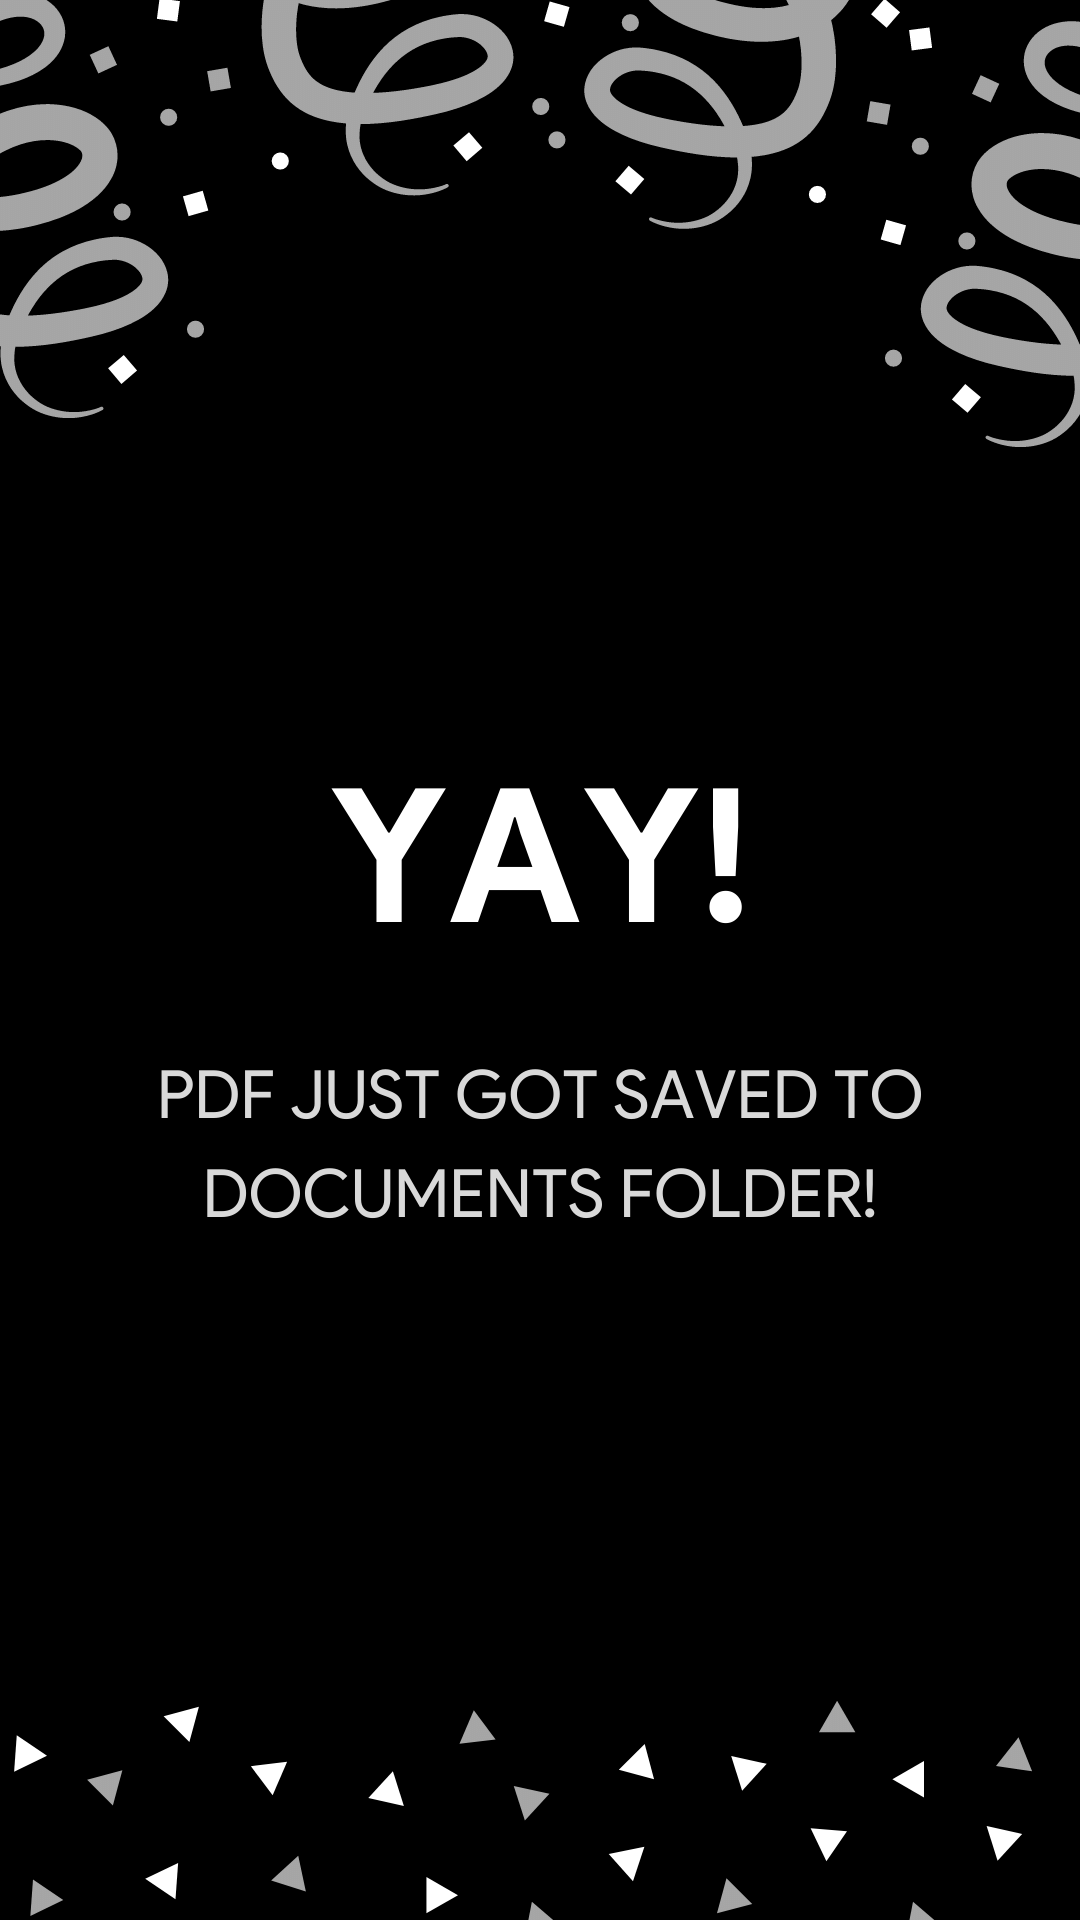
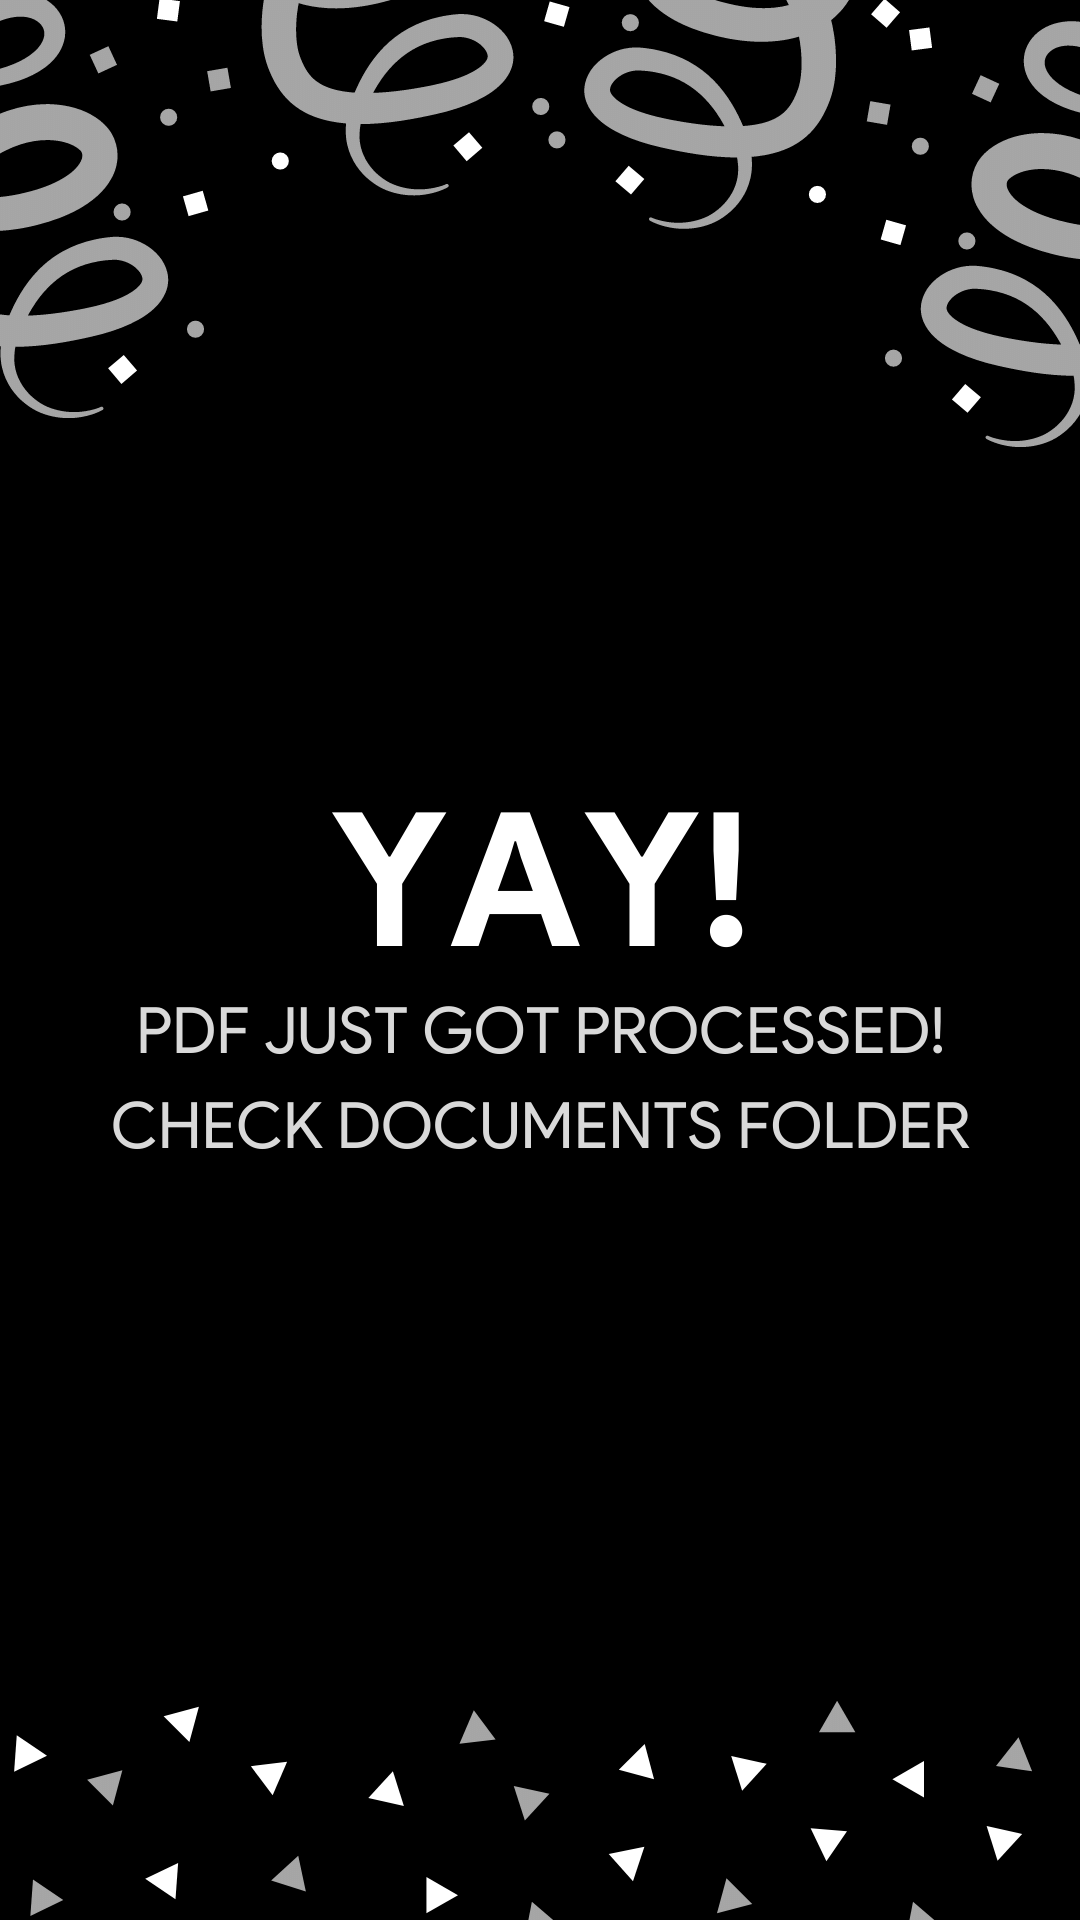
Added Final Exception Handled

Changed region(s): [[0.0917, 0.4062, 0.9167, 0.6562]]

diff --git a/app/src/main/java/com/aaxena/takenotes/Landing.java b/app/src/main/java/com/aaxena/takenotes/Landing.java
@@ -52,8 +52,10 @@ import com.google.android.play.core.install.model.AppUpdateType;
 import com.google.android.play.core.install.model.InstallStatus;
 import com.google.android.play.core.install.model.UpdateAvailability;
 import com.itextpdf.text.BadElementException;
+import com.itextpdf.text.Chunk;
 import com.itextpdf.text.Document;
 import com.itextpdf.text.DocumentException;
+import com.itextpdf.text.ExceptionConverter;
 import com.itextpdf.text.Image;
 import com.itextpdf.text.PageSize;
 import com.itextpdf.text.pdf.PdfWriter;
@@ -192,7 +194,6 @@ public class Landing extends AppCompatActivity {
         webview.getSettings().setUseWideViewPort(true);
         webview.setInitialScale((int) 1.0);
         webview.loadUrl("https://shrish-sharma-codes.github.io/tn-testing-V2/");
-        webview.scrollTo(0, 200);
         webview.setWebChromeClient(new WebChromeClient() {
             //File Chooser
             public boolean onShowFileChooser(
@@ -244,7 +245,21 @@ public class Landing extends AppCompatActivity {
                         }
                         new CreatePdfTask(Landing.this, imagesArrayList).execute();
                     } catch (Exception e) {
-                        Toast.makeText(Landing.this,"No Images Under Take Notes Folder",Toast.LENGTH_LONG).show();
+                        new AlertDialog.Builder(Landing.this)
+                                .setTitle("No Images Found")
+                                .setMessage(R.string.no_img)
+                                .setCancelable(false)
+                                // A null listener allows the button to dismiss the dialog and take no further action.
+                                .setPositiveButton("I Know", new DialogInterface.OnClickListener() {
+                                    @Override
+                                    public void onClick(DialogInterface dialog, int which) {
+                                        Intent i=new Intent(Landing.this,Landing.class);
+                                        startActivity(i);
+                                        overridePendingTransition(android.R.anim.fade_in, android.R.anim.fade_out);
+                                        finish();
+                                    }
+                                })
+                                .create().show();
                     }
                 }
                 else if (url.matches(getString(R.string.developer_page))) {
@@ -289,25 +304,23 @@ public class Landing extends AppCompatActivity {
     }
 
     private void checkPerms() {
-        if (android.os.Build.VERSION.SDK_INT >= android.os.Build.VERSION_CODES.M) {
-            if (checkSelfPermission(Manifest.permission.WRITE_EXTERNAL_STORAGE)
-                    == PackageManager.PERMISSION_DENIED) {
-                Log.d("permission", "permission denied to WRITE_EXTERNAL_STORAGE - requesting it");
-                String[] permissions = {Manifest.permission.WRITE_EXTERNAL_STORAGE};
-                requestPermissions(permissions, 1);
-                GoogleSignInAccount account = GoogleSignIn.getLastSignedInAccount(getApplicationContext());
-                if (account !=null) {
-                    String personName = account.getDisplayName();
-                    Toast.makeText(Landing.this, "Howdy " + personName + " you are in!", Toast.LENGTH_LONG).show();
-                    Toast.makeText(Landing.this, "Welcome to Take Notes", Toast.LENGTH_LONG).show();
-                }
-                else {
-                    Toast.makeText(Landing.this, R.string.not_yet_in,Toast.LENGTH_LONG).show();
-                    Vibrator v2 = (Vibrator) getSystemService(Context.VIBRATOR_SERVICE);
-                    v2.vibrate(30);
-                    Intent taking_out = new Intent(Landing.this, SignUp.class);
-                    startActivity(taking_out);
-                }
+        if (checkSelfPermission(Manifest.permission.WRITE_EXTERNAL_STORAGE)
+                == PackageManager.PERMISSION_DENIED) {
+            Log.d("permission", "permission denied to WRITE_EXTERNAL_STORAGE - requesting it");
+            String[] permissions = {Manifest.permission.WRITE_EXTERNAL_STORAGE};
+            requestPermissions(permissions, 1);
+            GoogleSignInAccount account = GoogleSignIn.getLastSignedInAccount(getApplicationContext());
+            if (account !=null) {
+                String personName = account.getDisplayName();
+                Toast.makeText(Landing.this, "Howdy " + personName + " you are in!", Toast.LENGTH_LONG).show();
+                Toast.makeText(Landing.this, "Welcome to Take Notes", Toast.LENGTH_LONG).show();
+            }
+            else {
+                Toast.makeText(Landing.this, R.string.not_yet_in,Toast.LENGTH_LONG).show();
+                Vibrator v2 = (Vibrator) getSystemService(Context.VIBRATOR_SERVICE);
+                v2.vibrate(30);
+                Intent taking_out = new Intent(Landing.this, SignUp.class);
+                startActivity(taking_out);
             }
         }
     }
@@ -471,64 +484,70 @@ public class Landing extends AppCompatActivity {
 
         @Override
         protected File doInBackground(String... strings) {
-            GoogleSignInAccount account = GoogleSignIn.getLastSignedInAccount(getApplicationContext());
-            String username = account.getDisplayName();
-            File outputMediaFile =  new File(Environment.getExternalStorageDirectory(), Environment.DIRECTORY_DOCUMENTS+"/"+username+ System.currentTimeMillis() + ".pdf");
-            Document document = new Document(PageSize.A4, 38.0f, 38.0f, 50.0f, 38.0f);
+
+                GoogleSignInAccount account = GoogleSignIn.getLastSignedInAccount(getApplicationContext());
+                String username = account.getDisplayName();
+                File outputMediaFile = new File(Environment.getExternalStorageDirectory(), Environment.DIRECTORY_DOCUMENTS + "/" + username + System.currentTimeMillis() + ".pdf");
+                Document document = new Document(PageSize.A4, 38.0f, 38.0f, 50.0f, 38.0f);
+                try {
+                    PdfWriter.getInstance(document, new FileOutputStream(outputMediaFile));
+                } catch (DocumentException | ExceptionConverter e) {
+                    e.printStackTrace();
+                    progressDialog.dismiss();
+                } catch (FileNotFoundException e) {
+                    e.printStackTrace();
+                    progressDialog.dismiss();
+                    return null;
+                }
+            document.open();
             try {
-                PdfWriter.getInstance(document, new FileOutputStream(outputMediaFile));
+                document.add(new Chunk(""));
             } catch (DocumentException e) {
                 e.printStackTrace();
-            } catch (FileNotFoundException e) {
-                e.printStackTrace();
-                return null;
             }
-            document.open();
 
             int i = 0;
-            while (true) {
-                if (i < this.files.size()) {
-                    try {
-                        Image image = Image.getInstance(files.get(i).getAbsolutePath());
+                while (true) {
+                    if (i < this.files.size()) {
+                        try {
+                            Image image = Image.getInstance(files.get(i).getAbsolutePath());
 
-                        float scaler = ((document.getPageSize().getWidth() - document.leftMargin()
-                                - document.rightMargin() - 0) / image.getWidth()) * 100; // 0 means you have no indentation. If you have any, change it.
-                        image.scalePercent(scaler);
-                        image.setAlignment(Image.ALIGN_CENTER | Image.ALIGN_TOP);
-                        image.setAbsolutePosition((document.getPageSize().getWidth() - image.getScaledWidth()) / 2.0f,
-                                (document.getPageSize().getHeight() - image.getScaledHeight()) / 2.0f);
+                            float scaler = ((document.getPageSize().getWidth() - document.leftMargin()
+                                    - document.rightMargin() - 0) / image.getWidth()) * 100; // 0 means you have no indentation. If you have any, change it.
+                            image.scalePercent(scaler);
+                            image.setAlignment(Image.ALIGN_CENTER | Image.ALIGN_TOP);
+                            image.setAbsolutePosition((document.getPageSize().getWidth() - image.getScaledWidth()) / 2.0f,
+                                    (document.getPageSize().getHeight() - image.getScaledHeight()) / 2.0f);
 
-                        document.add(image);
-                        document.newPage();
-                        publishProgress(i);
-                        i++;
-                    } catch (BadElementException e) {
-                        e.printStackTrace();
-                    } catch (IOException e) {
-                        e.printStackTrace();
-                    } catch (DocumentException e) {
-                        e.printStackTrace();
+                            document.add(image);
+                            document.newPage();
+                            publishProgress(i);
+                            i++;
+                        } catch (BadElementException e) {
+                            e.printStackTrace();
+                        } catch (IOException e) {
+                            e.printStackTrace();
+                        } catch (DocumentException e) {
+                            e.printStackTrace();
+                        }
+                    } else {
+                        document.close();
+                        return outputMediaFile;
                     }
-                } else {
-                    document.close();
-                    return outputMediaFile;
                 }
-            }
         }
+
 
         @Override
         protected void onProgressUpdate(Integer... values) {
             super.onProgressUpdate(values);
-            StringBuilder sb = new StringBuilder();
-            sb.append("There seems an error!");
-            progressDialog.setTitle(sb.toString());
+            progressDialog.dismiss();
         }
 
         @Override
         protected void onPostExecute(File file) {
             super.onPostExecute(file);
             progressDialog.dismiss();
-            Toast.makeText(context, "PDF Saved at: " + file.getAbsolutePath(), Toast.LENGTH_LONG).show();
         }
     }
 
